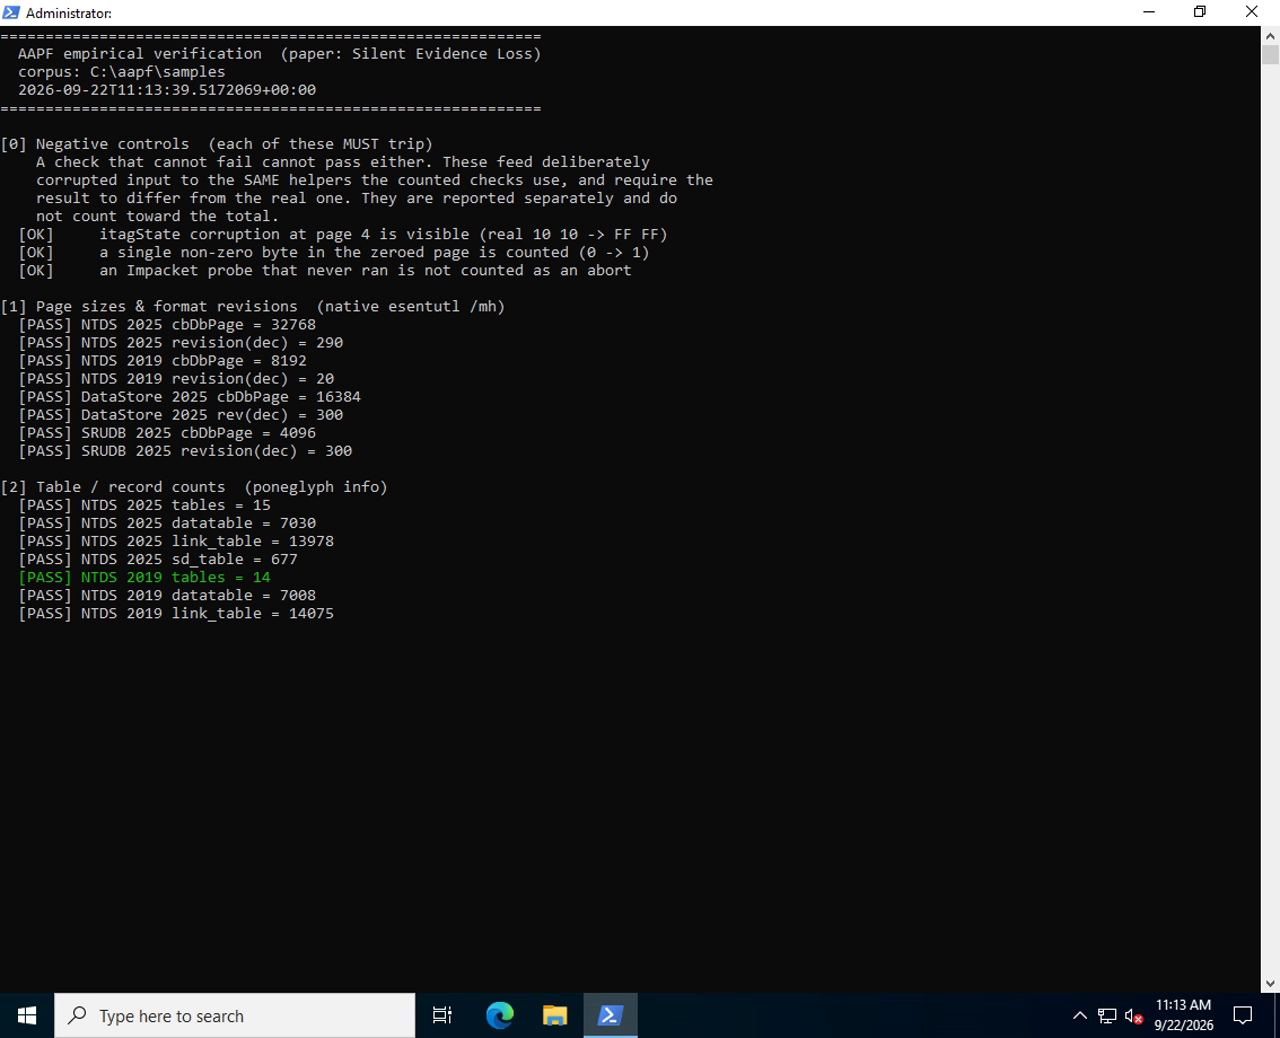
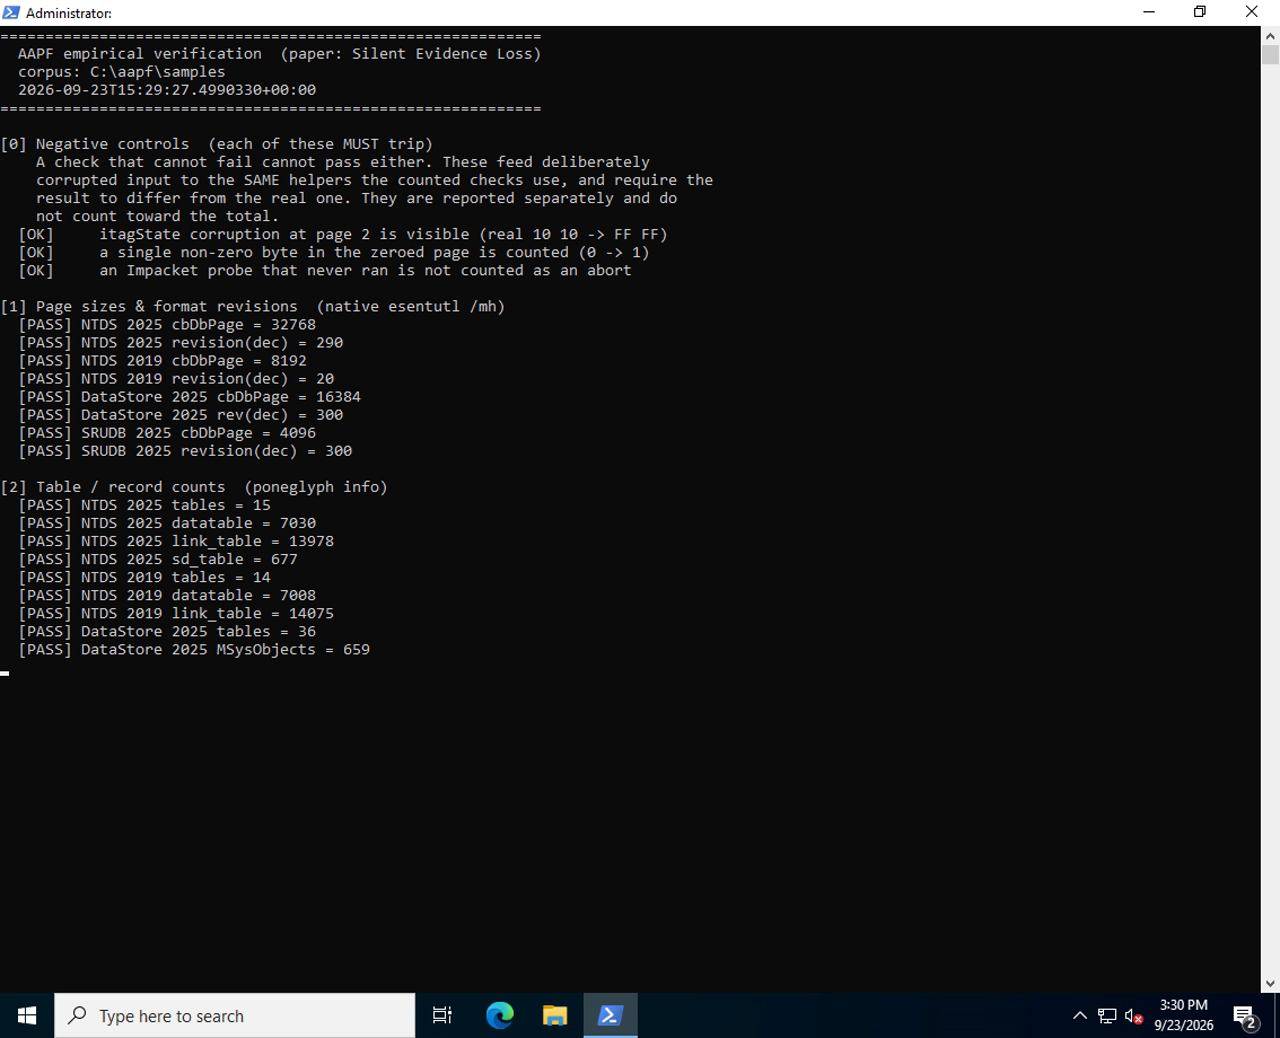
docs(reproduction): re-record with 53 assertions; page-2/page-4 numbering
Re-ran the self-verifying sandbox after adding a probe at the genuine
page 4 (the MSysObjects catalog root at 0x28000, itagState 0x1006 —
the page the unpatched parser actually aborts on). Result: 53 PASS /
0 FAIL, with all three negative controls tripping as required.

- run-verification.ps1: relabel the stale "page 4" (offset 0x18000 is
  page 2 under libesedb's (N+1)*page_size numbering) and add the
  catalog-root probe; align the section [6] label with the paper's
  3-bit ctagReserved + reserved bit 15.
- VERIFICATION.md: 52 -> 53 PASS, section [3] now 4/4, section [5] is
  the page-2 dump, and the "illustrative page" is page 2 with the
  numbering rule stated.
- verification-evidence/: replace the log, video and screenshots with
  the 2026-09-23 run (frames re-extracted from the new recording).

Not pushed: this record stays in staging until the co-author review is
complete.

Changed region(s): [[0.0, 0.5549, 0.2812, 0.6474], [0.9062, 0.9557, 1.0, 1.0], [0.0938, 0.0617, 0.2188, 0.0925]]

diff --git a/reproduction/VERIFICATION.md b/reproduction/VERIFICATION.md
@@ -9,7 +9,7 @@ Where [`REPRODUCE.md`](REPRODUCE.md) tells a reviewer **how** to reproduce each
 result by hand, this file is the **captured result** of doing so automatically:
 a single `vagrant up` builds a clean VM, runs the checks, and screen-records the
 run to video. Every check is a hard PASS/FAIL assertion against a pre-declared
-expected value; the run reproduced here yields **52 PASS / 0 FAIL**.
+expected value; the run reproduced here yields **53 PASS / 0 FAIL**.
 
 Everything below is regenerable from this record alone — see
 [Regenerating this evidence](#regenerating-this-evidence).
@@ -31,15 +31,15 @@ Everything below is regenerable from this record alone — see
 |---|---|---|---|
 | [1] | Page sizes & format revisions (`esentutl /mh`) | Table 1, §2.2 page-size heterogeneity; §5.1 revisions (`0x0122`/`0x012C`/`0x0014`) | 8/8 PASS |
 | [2] | Table / record counts (`poneglyph info`) | Table 5 (Schema Robustness × Clean), Table (Integrity) | 15/15 PASS |
-| [3] | `itagState` at page 4 (bytes 34–35) | Table (`itagState` per artifact); Figures 1–2 | 3/3 PASS |
+| [3] | `itagState` at page 2 (bytes 34–35), and at the page-4 catalog root | Table (`itagState` per artifact); Figures 1–2 | 4/4 PASS |
 | [4] | Impacket v0.13.1 full ESE read | Tools/benchmark table; §8.4 (4 KiB `SRUDB` aborts, 16 KiB `DataStore` opens) | 2/2 PASS |
-| [5] | Page-4 header hex dump | **Figure 1** (annotated ESE page header) | displayed |
+| [5] | Page-2 header hex dump | **Figure 1** (annotated ESE page header) | displayed |
 | [6] | `itagState = 0x100A` bit-field interpretation | **Figure 2** (correct vs 16-bit misread) | 1/1 PASS |
 | [7] | 32 KiB page partition | **Figure 5** (data area vs "ghost tags") | 1/1 PASS |
 | [8] | Normal page vs fully-zeroed page hex | **Figure 3** (page comparison) + underpins **Figure 4** (B-tree leaf chain) | 2/2 PASS |
 | [9] | Client axis (`w11-25h2`): the 4/16/32 KiB spectrum on one client | §8.5 client applicability; the deposited synthetic Windows 11 samples | 12/12 PASS |
 | [10] | Credential value fidelity: Poneglyph vs Impacket, per RID | §8.3 value-fidelity cross-validation; `reproduction/hash_value_validation.txt` | 8/8 PASS |
-| | **SUMMARY** | | **52 PASS / 0 FAIL** |
+| | **SUMMARY** | | **53 PASS / 0 FAIL** |
 
 All values are read live from the deposited databases; none are hard-coded. In
 particular [6]–[8] derive `4106` vs `10`, the `16 384`-byte ghost region, and
@@ -64,17 +64,18 @@ vs *fully-zeroed* (`0x98000`) page headers, read from the real sample.
 
 ### 3 — Client axis, credential value fidelity, and final summary (sections [9]–[10] + SUMMARY)
 The 4/16/32 KiB client spectrum, the Poneglyph-vs-Impacket credential comparison
-(counts and mismatches only; no hash is printed), the `SUMMARY: PASS = 52  FAIL =
+(counts and mismatches only; no hash is printed), the `SUMMARY: PASS = 53  FAIL =
 0` line, and the `Negative controls: 3/3` line below it.
 
-![Client axis, value fidelity, and summary](verification-evidence/03-client-axis-and-summary-52pass.png)
+![Client axis, value fidelity, and summary](verification-evidence/03-client-axis-and-summary-53pass.png)
 
 ## Figure-to-hex correspondence (read from the deposited `ntds.dit`)
 
-The illustrative page is page 4 (`0x18000 = 3 × 32768`) of
+The illustrative page is page 2 (`0x18000 = 3 × 32768`; libesedb places page N
+at `(N+1) × page_size`) of
 `samples/identity/2025/clean/ntds.dit`.
 
-| Artifact (2025, Clean) | Page-4 offset | `itagState` bytes 34–35 | Value | `ctagReserved` | tag count |
+| Artifact (2025, Clean) | Page-2 offset | `itagState` bytes 34–35 | Value | `ctagReserved` | tag count |
 |---|---|---|---|---|---|
 | `ntds.dit` (32 KiB) | `0x18000` | `0A 10` | `0x100A` | `0x1` | 10 |
 | `DataStore.edb` (16 KiB) | `0xC000` | `41 10` | `0x1041` | `0x1` | 65 |
@@ -93,14 +94,14 @@ The illustrative page is page 4 (`0x18000 = 3 × 32768`) of
 
 The complete console transcript of the run recorded on 2026-09-22 (sections
 `[0]`–`[10]`, UTF-16) is
-[`verification-evidence/verification-final-52pass.log`](verification-evidence/verification-final-52pass.log).
+[`verification-evidence/verification-final-53pass.log`](verification-evidence/verification-final-53pass.log).
 The three frames above cover every section between them; the log holds the run
 in full.
 
 ## Video
 
 The full screen recording of the run (`[0]`–`[10]` in a live console, 1 min 01 s) is
-`verification-evidence/verification-final-52pass.mp4`. It is distributed with the
+`verification-evidence/verification-final-53pass.mp4`. It is distributed with the
 **Zenodo record only** (kept out of the Git repository for size); the three
 screenshots above are frames extracted from it.
 
